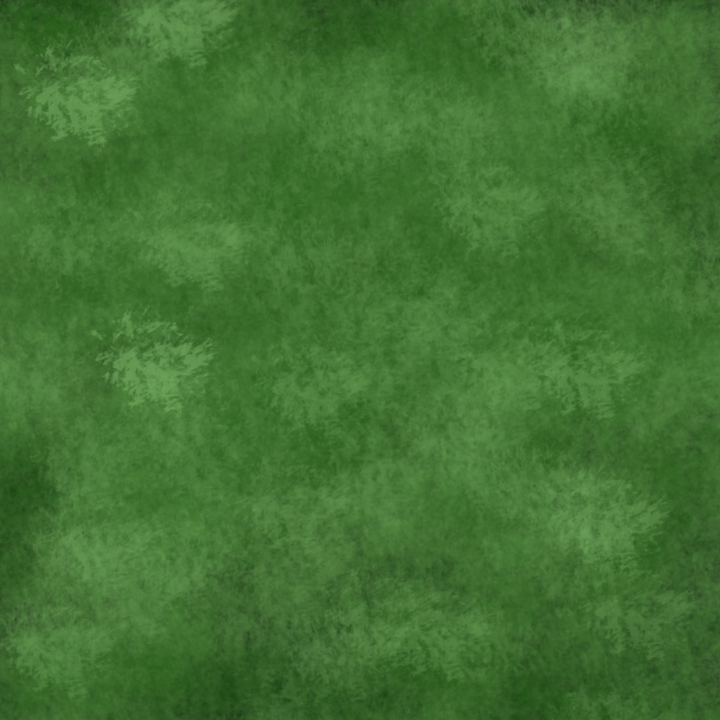
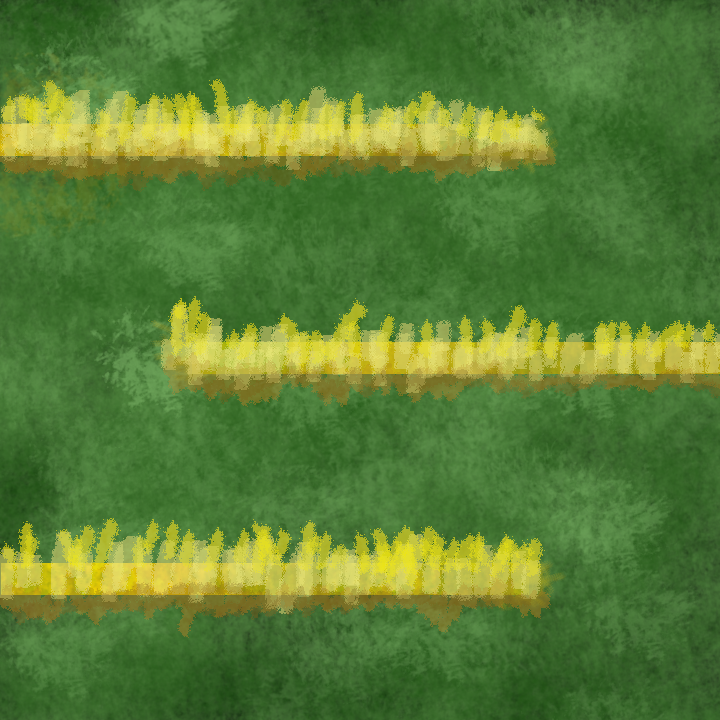
Add barriers

Changed region(s): [[0.0, 0.0917, 0.7944, 0.3056], [0.0, 0.7028, 0.7944, 0.8861], [0.2139, 0.3972, 1.0, 0.5806]]

diff --git a/rock.py b/rock.py
@@ -36,8 +36,9 @@ def main():
 
     bounding_boxes = [
     #              left top right bottom
-    # for example, (50,  50, 500,   500)
-
+    (0, 110, 528, 160),
+    (189, 320, 720, 375),
+    (0, 543, 529, 595)
     ]
 
     for i in range(24):
